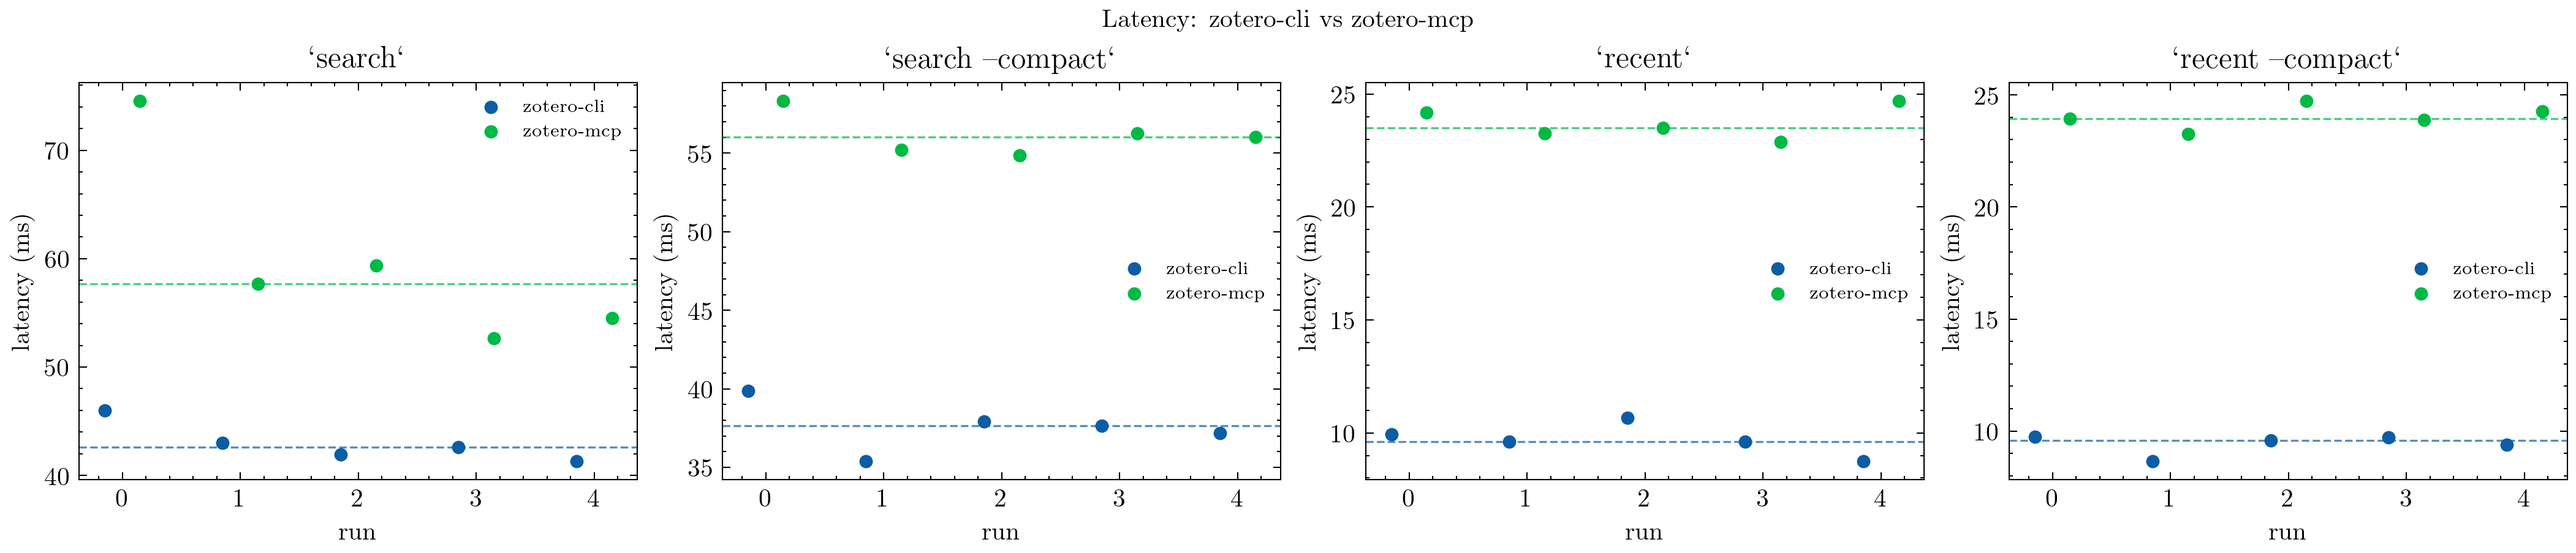
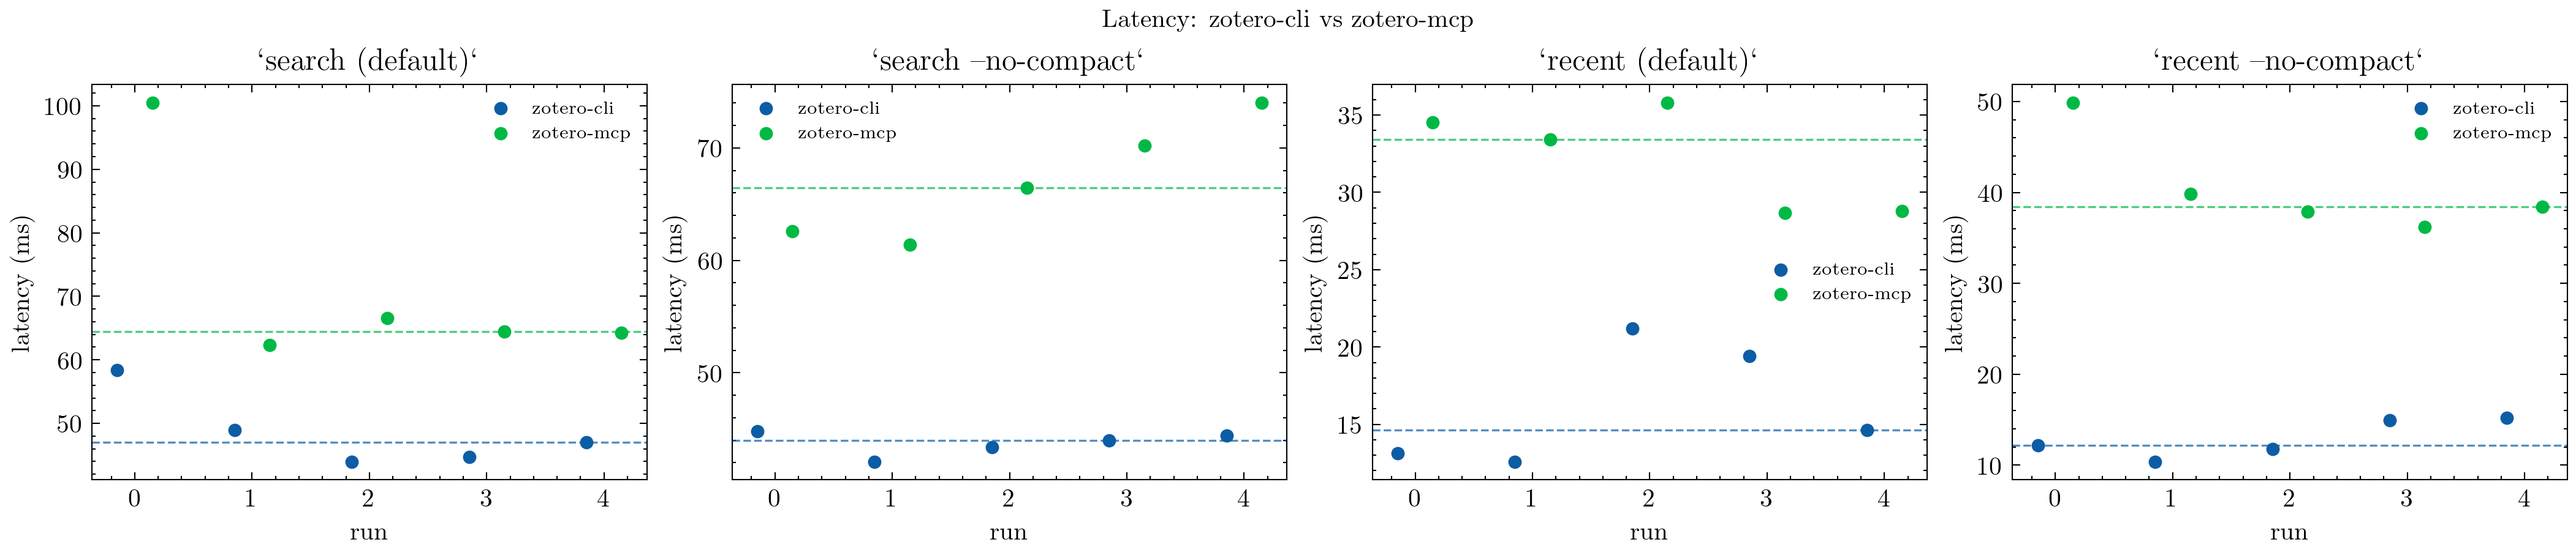
docs: update benchmark numbers after minreq migration
Re-ran bench.py with minreq backend. Updated README table and plots.
Added note about minreq and reduced dependency count.

diff --git a/README.md b/README.md
@@ -107,12 +107,12 @@ Run `bench/.venv/bin/python bench/bench.py` to reproduce (see `bench/` for setup
 
 | Operation | Tool | Latency (ms) | Payload | ~Tokens |
 |---|---|---|---|---|
-| `search "mppi"` (25 results) | `zotero-cli --json` | **38 ms** | **6 676 B** | **1 669** |
-| | `zotero-cli --json --no-compact` | 43 ms | 45 210 B | 11 302 |
-| | `zotero-mcp` | 58 ms | 10 442 B | 2 610 |
-| `recent 10` | `zotero-cli --json` | **10 ms** | **5 659 B** | **1 414** |
-| | `zotero-cli --json --no-compact` | 10 ms | 34 560 B | 8 640 |
-| | `zotero-mcp` | 24 ms | 5 384 B | 1 346 |
+| `search "mppi"` (25 results) | `zotero-cli --json` | **47 ms** | **6 176 B** | **1 544** |
+| | `zotero-cli --json --no-compact` | 44 ms | 41 640 B | 10 410 |
+| | `zotero-mcp` | 64 ms | 9 643 B | 2 410 |
+| `recent 10` | `zotero-cli --json` | **15 ms** | **5 040 B** | **1 260** |
+| | `zotero-cli --json --no-compact` | 12 ms | 27 682 B | 6 920 |
+| | `zotero-mcp` | 33 ms | 5 001 B | 1 250 |
 
 **zotero-cli wins on both latency and token cost by default** — compact JSON
 (key, type, title, date, authors) is the default for list commands. Use
@@ -120,6 +120,9 @@ Run `bench/.venv/bin/python bench/bench.py` to reproduce (see `bench/` for setup
 
 **zotero-mcp still wins inside Claude Code** — it stays warm as a persistent
 process and is the right tool when already inside an LLM session.
+
+HTTP client: `minreq` (no TLS — localhost doesn't need it). Dependency tree
+is ~45 crates, down from ~89 with the previous `ureq` backend.
 
 ## Static binary
 
